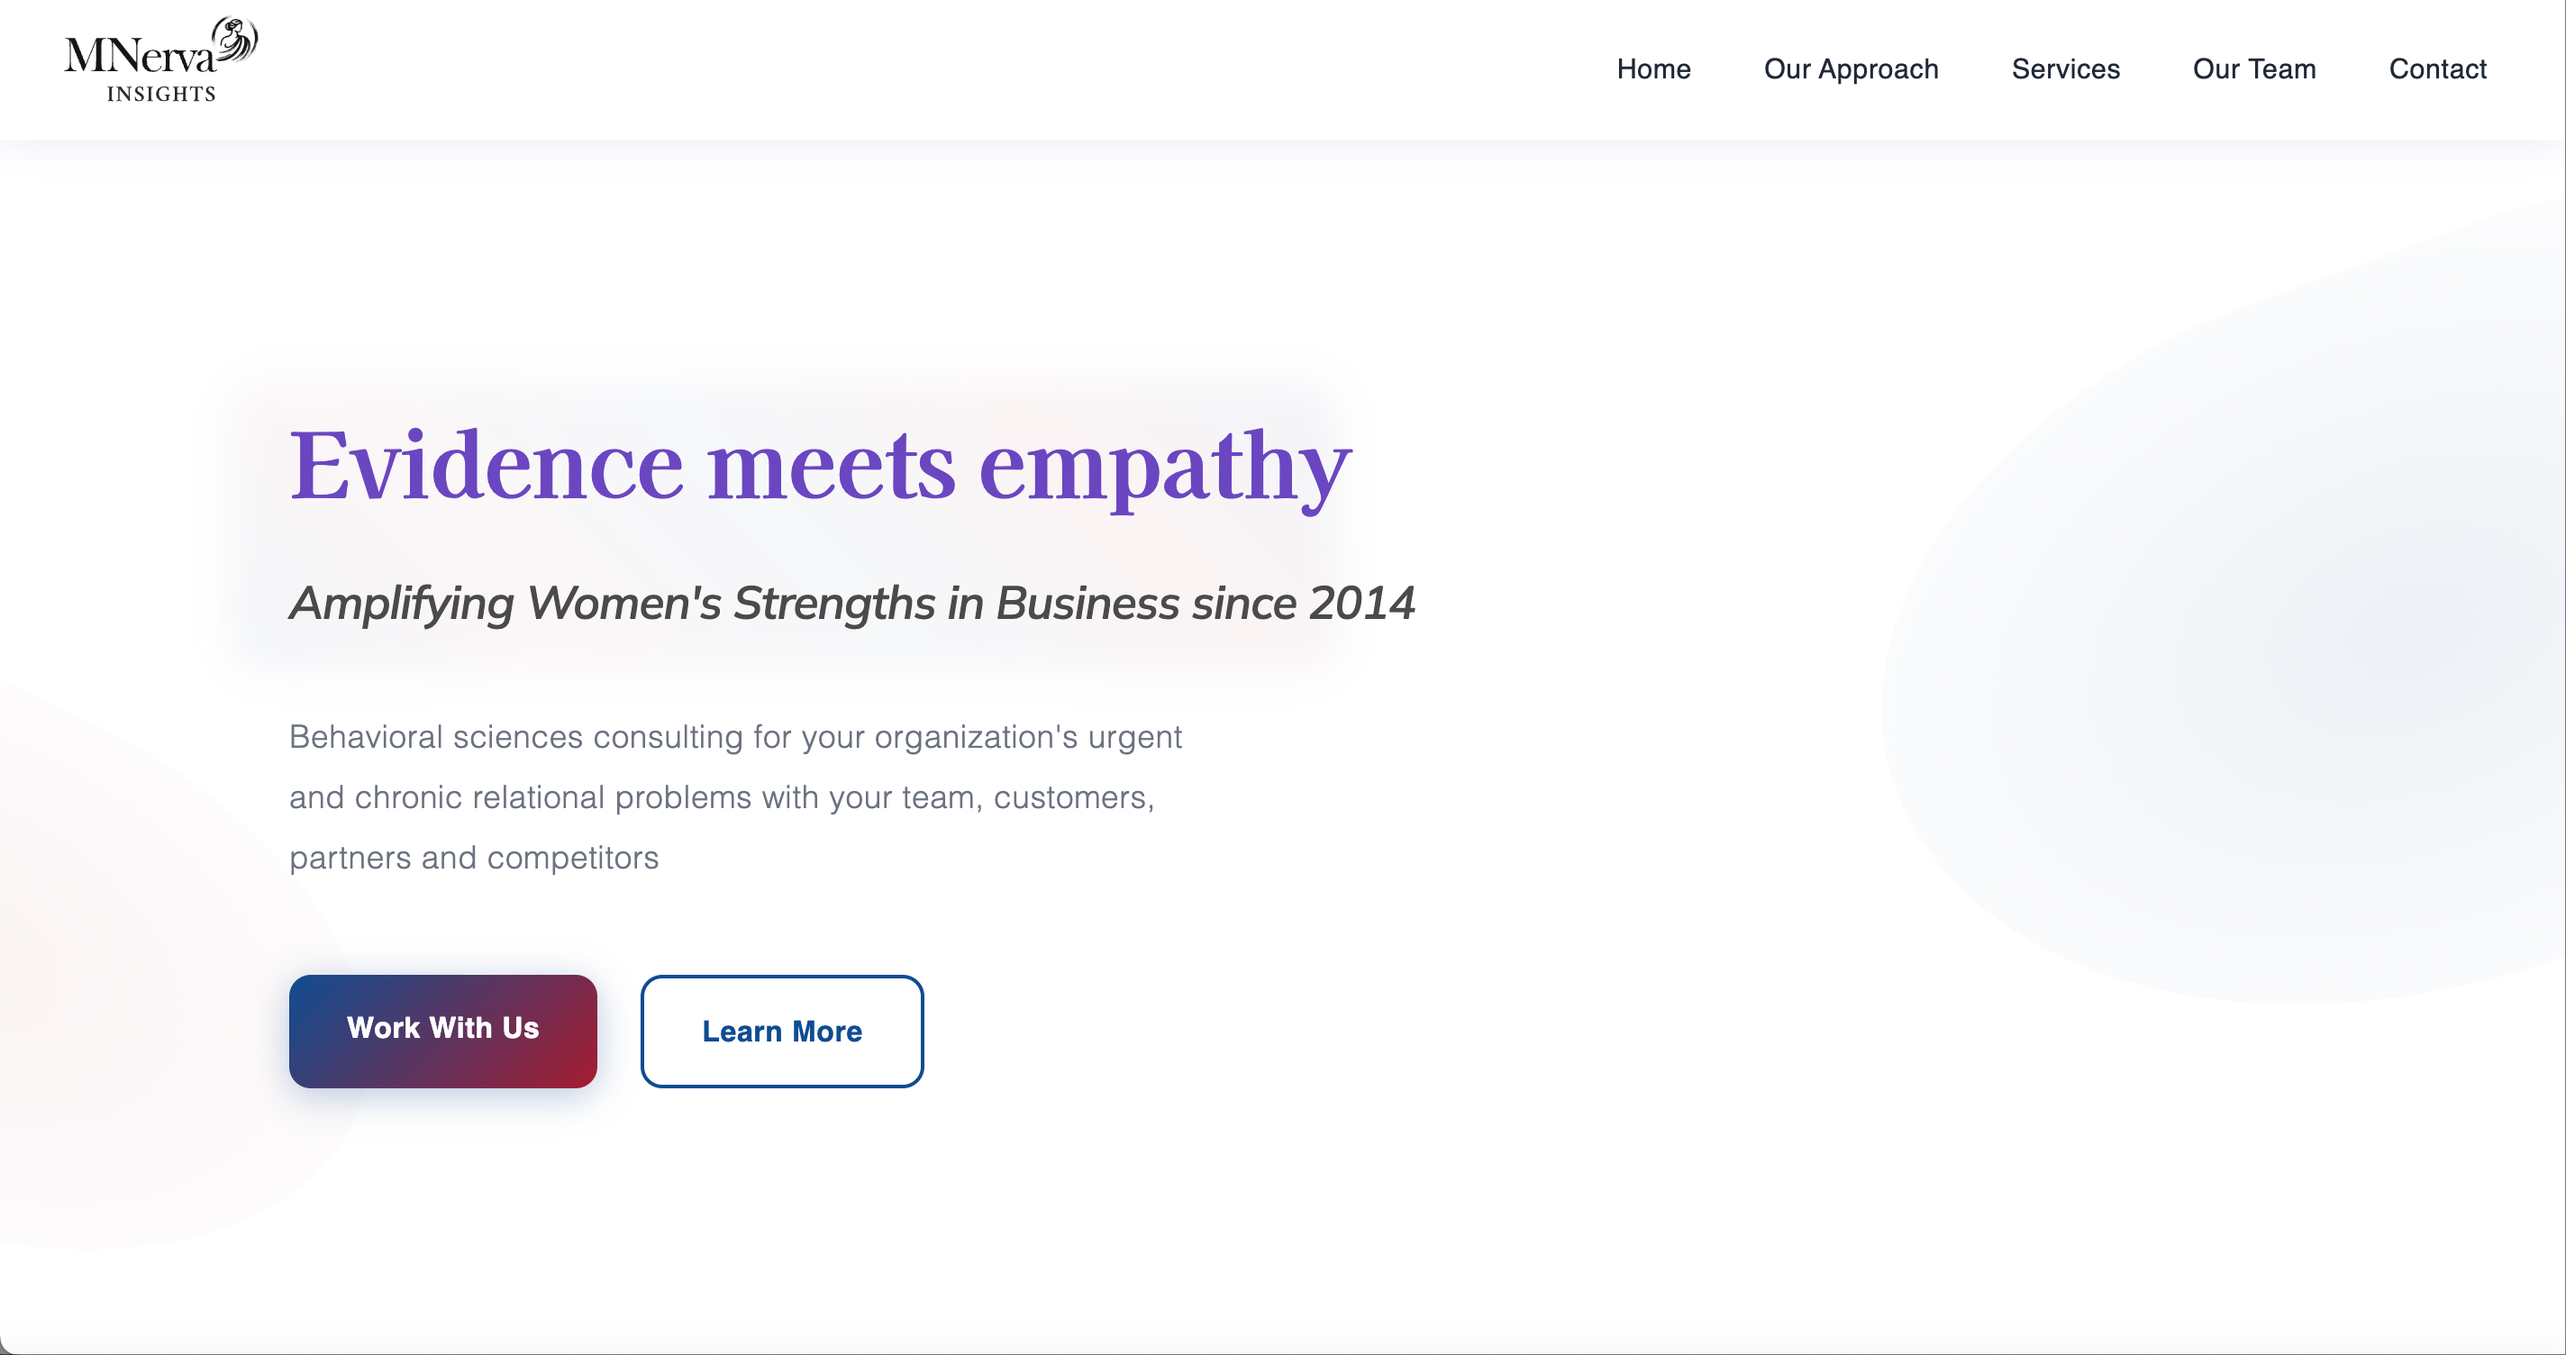
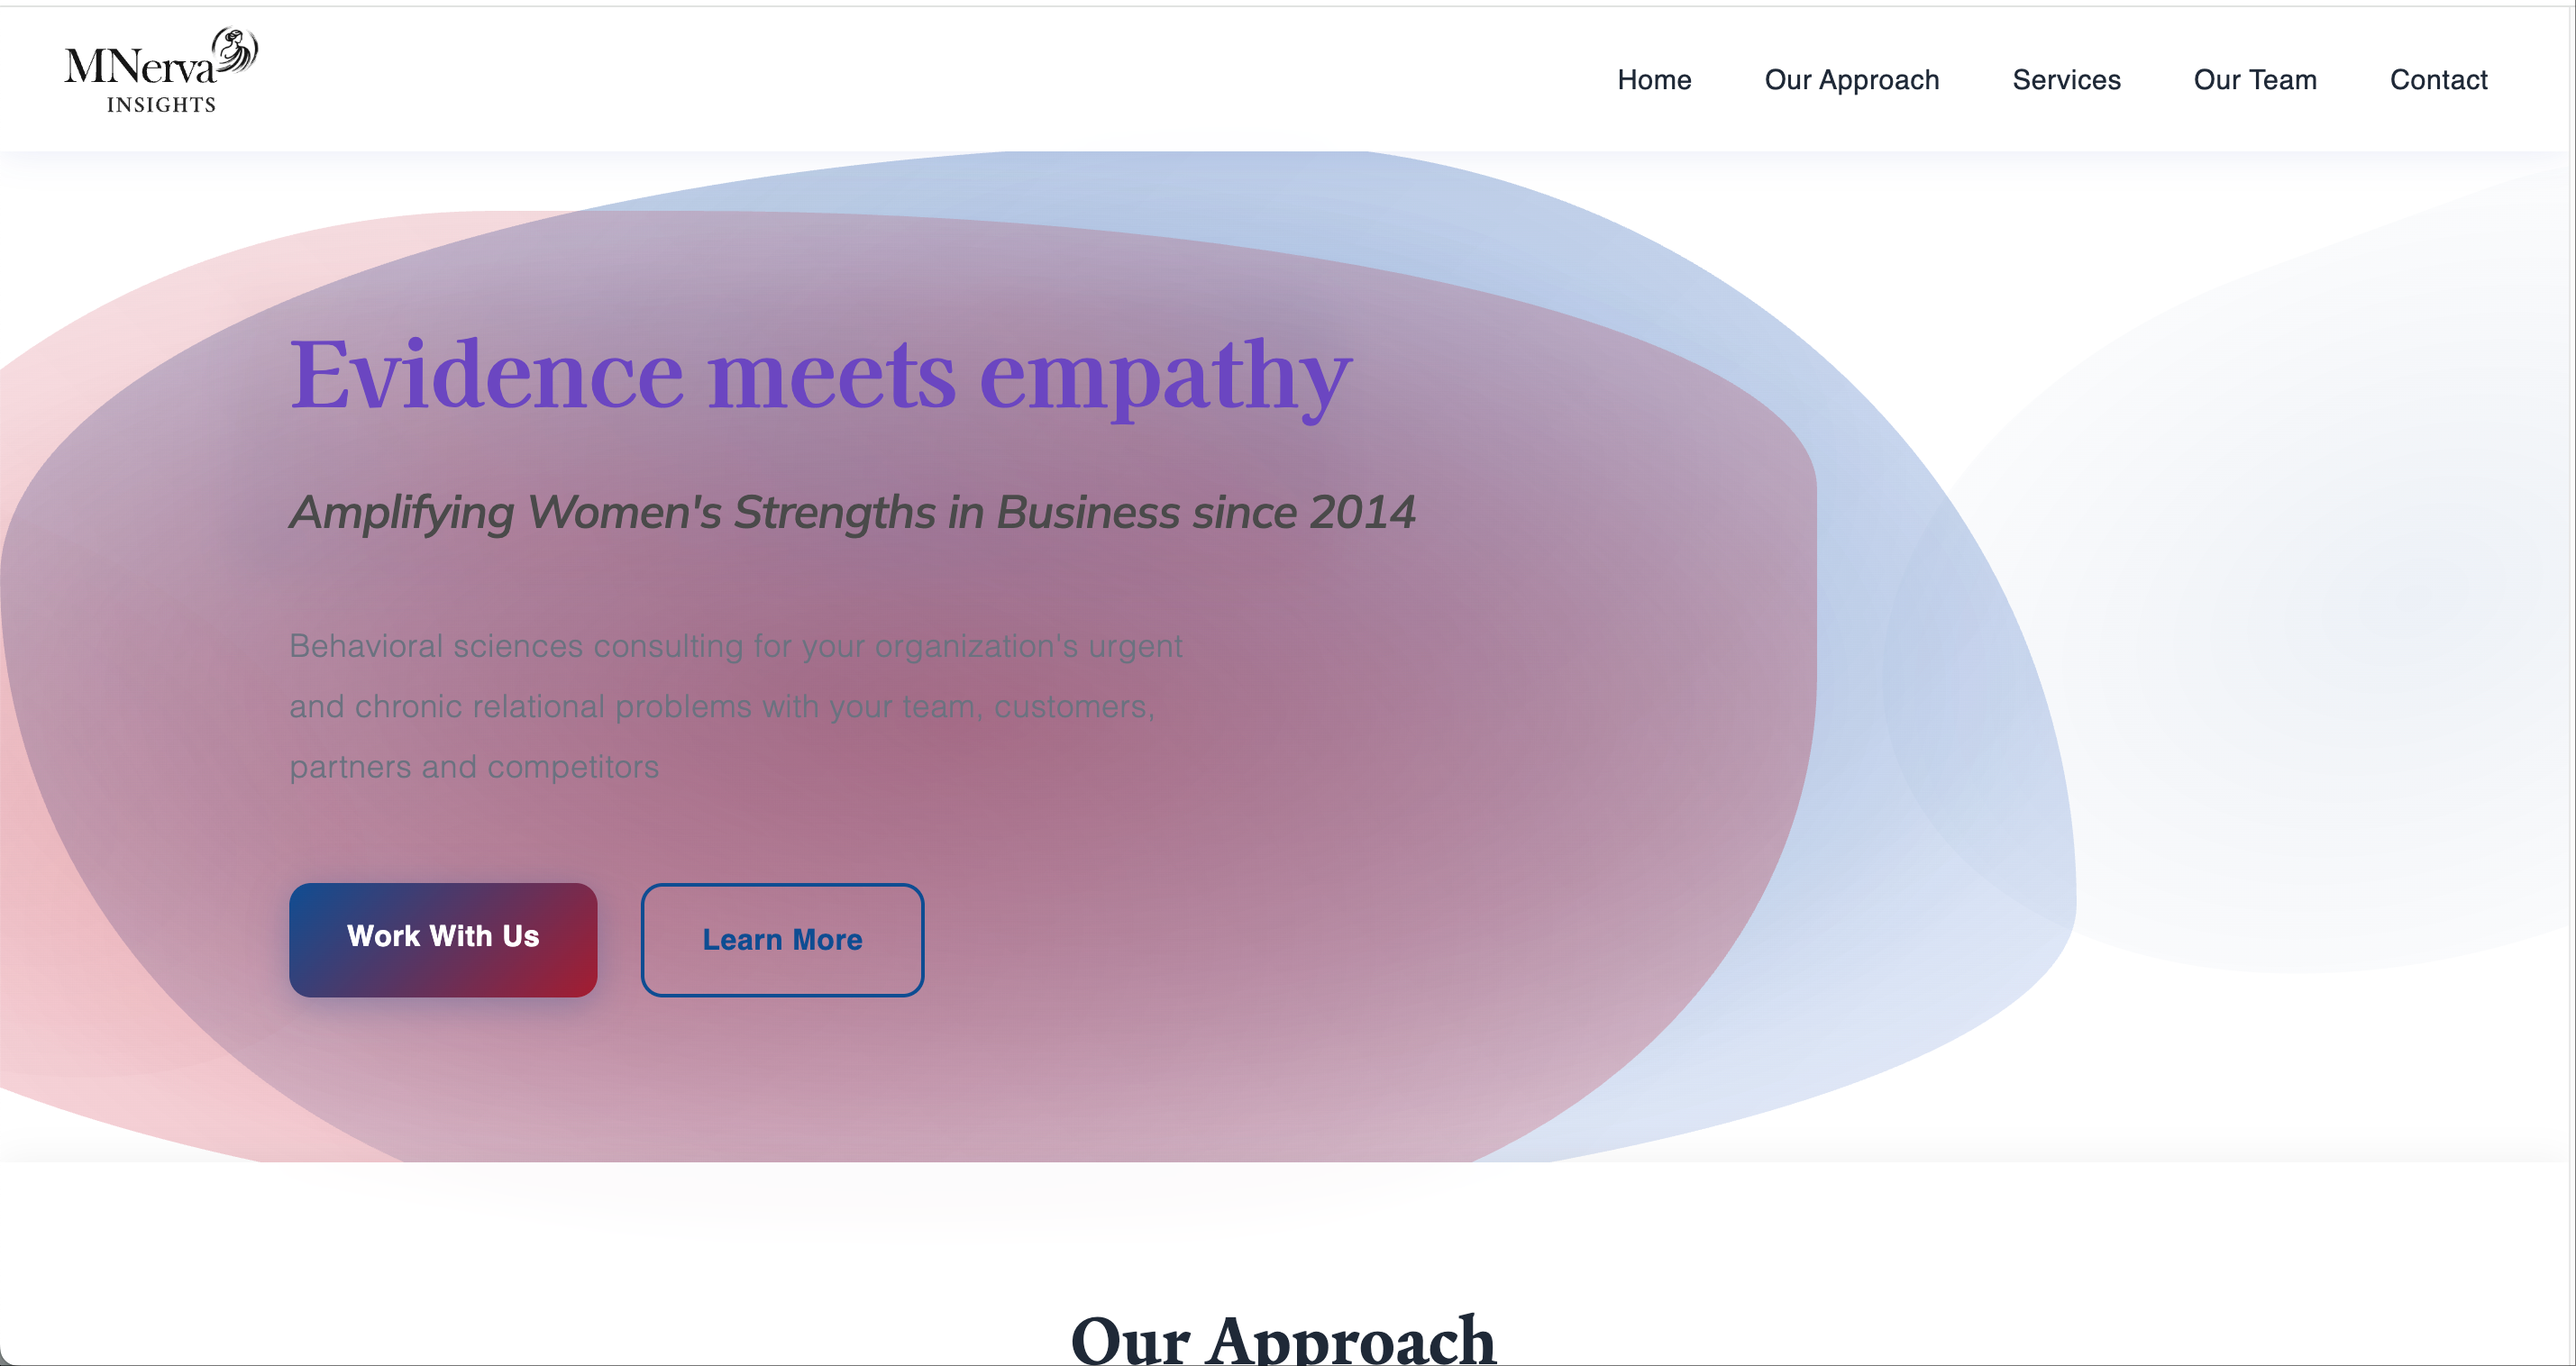
Fix watercolor positioning and prevent section cutting
- Change pink final position from 30% to 60% (slides in LESS from right)
- Reduce blue height from 80% to 60% and move top from 10% to 15%
- Reduce pink height from 75% to 55% and move top from 15% to 20%
- Shapes now stay within section boundaries and don't get cut
- Overlap occurs more to the right as intended

🤖 Generated with [Claude Code](https://claude.ai/code)

diff --git a/*Main/styles.css b/*Main/styles.css
@@ -1892,10 +1892,10 @@ footer {
 
 .watercolor-blue {
     position: absolute;
-    top: 10%;
+    top: 15%;
     left: -80%;
     width: 80%;
-    height: 80%;
+    height: 60%;
     background: 
         radial-gradient(ellipse at 40% 50%, rgba(15, 77, 146, 0.3) 0%, rgba(15, 77, 146, 0.15) 40%, transparent 70%),
         radial-gradient(ellipse at 60% 30%, rgba(30, 91, 184, 0.25) 0%, rgba(30, 91, 184, 0.1) 50%, transparent 80%),
@@ -1907,10 +1907,10 @@ footer {
 
 .watercolor-pink {
     position: absolute;
-    top: 15%;
+    top: 20%;
     right: -80%;
     width: 80%;
-    height: 75%;
+    height: 55%;
     background: 
         radial-gradient(ellipse at 60% 50%, rgba(165, 28, 48, 0.3) 0%, rgba(165, 28, 48, 0.15) 40%, transparent 70%),
         radial-gradient(ellipse at 40% 70%, rgba(199, 54, 80, 0.25) 0%, rgba(199, 54, 80, 0.1) 50%, transparent 80%),
@@ -1941,7 +1941,7 @@ footer {
         opacity: 0;
     }
     100% {
-        right: 30%;
+        right: 60%;
         transform: rotate(0deg) scale(1);
         opacity: 1;
     }
